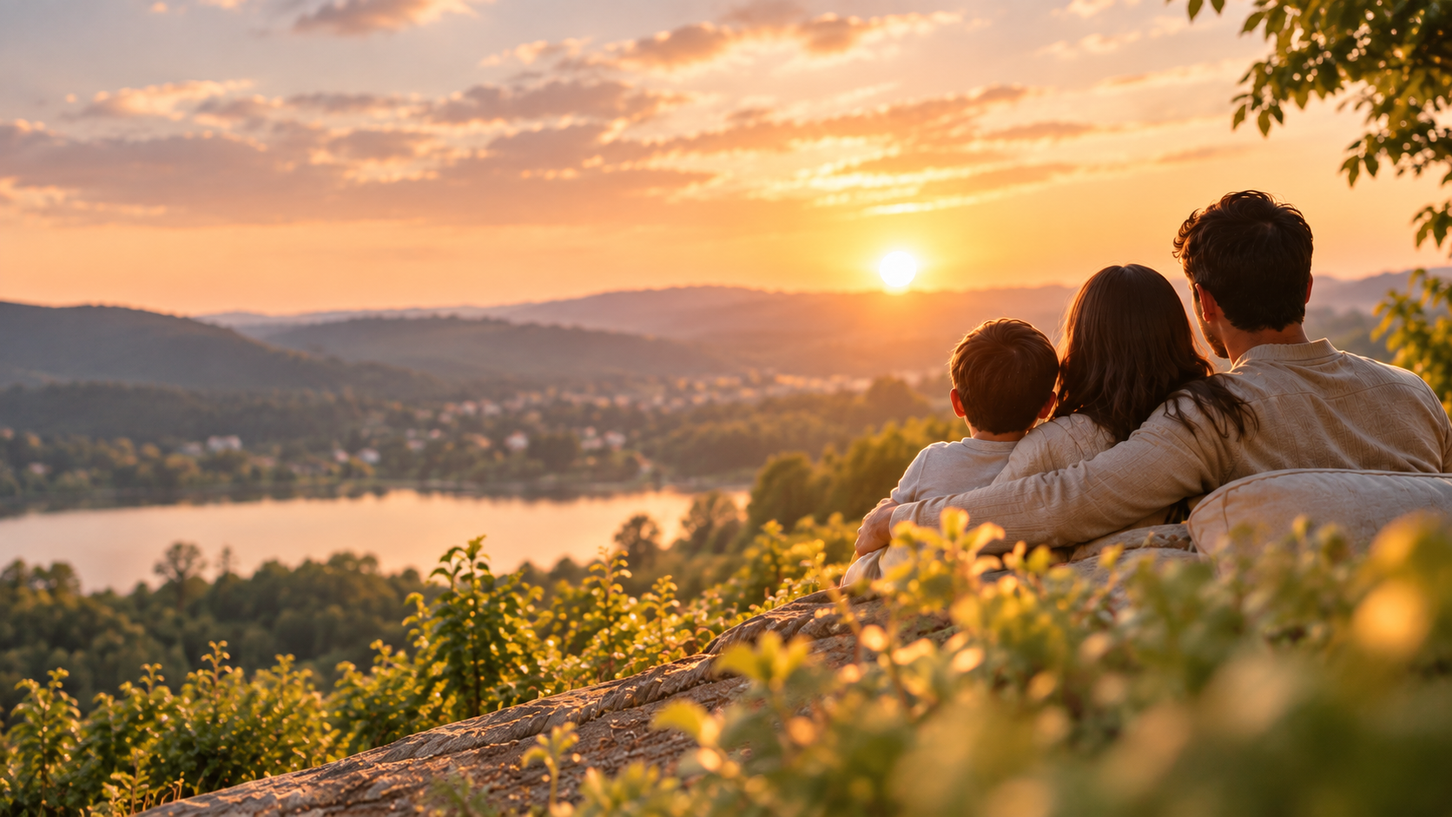
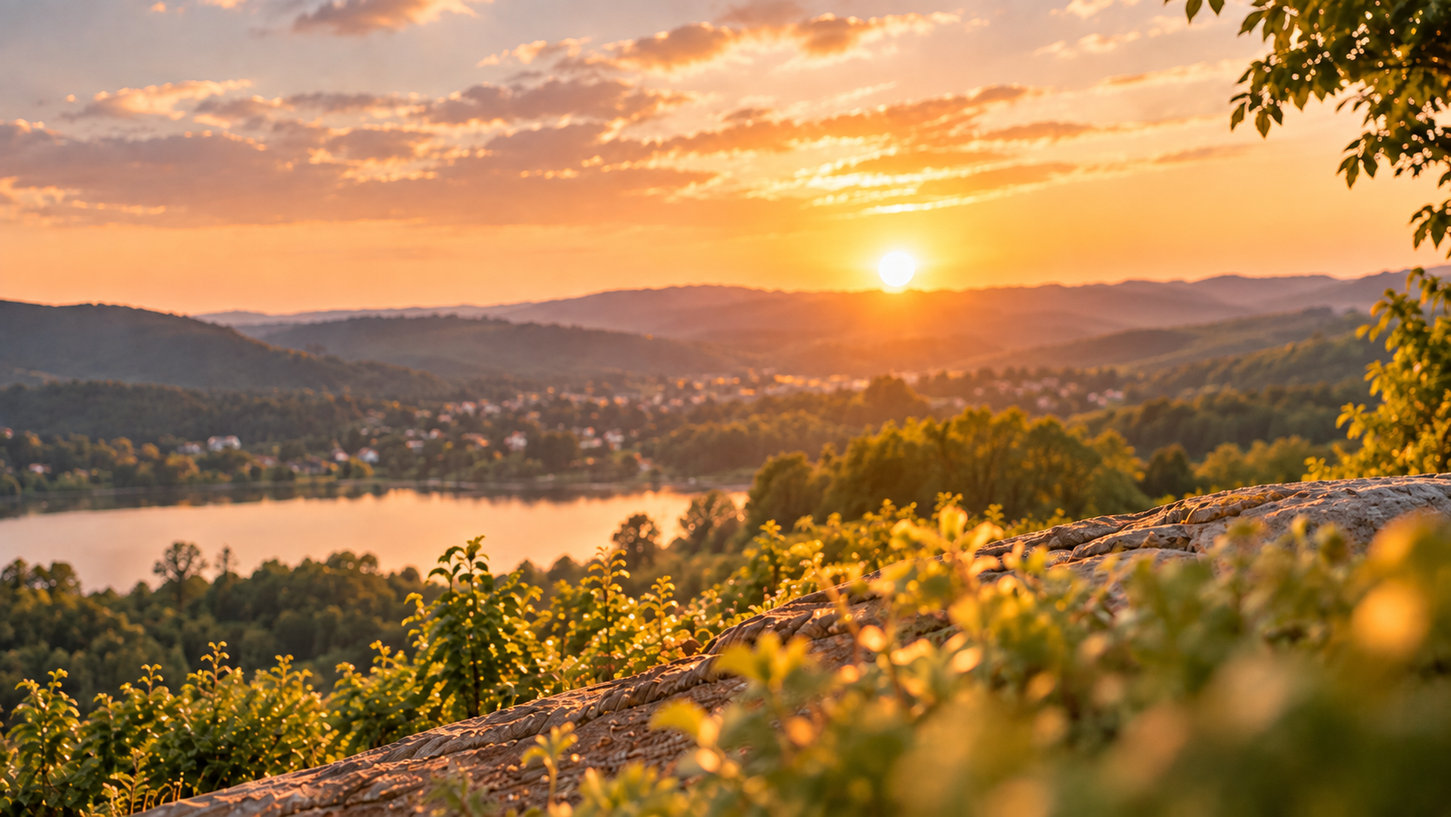
new changes to front cover image

diff --git a/dist/assets/index-CX-RMKwR.css b/dist/assets/index-CX-RMKwR.css
@@ -1,0 +1,1 @@
+:root{--bg:#F3EADF;--surface:#FFFDFA;--surface-2:#F1E8DE;--surface-3:#E8DCCF;--ink:#1F1519;--ink-2:#5C4C53;--ink-3:#8C7B80;--line:#E3D5C8;--brand:#6E1F47;--brand-ink:#FFFFFF;--brand-tint:#F5E5EC;--brand-soft:#E4C2D2;--accent:#EE5A2B;--accent-tint:#FDE6DC;--ok:#2C7666;--ok-tint:#DCEEE8;--open:#A0630C;--open-tint:#F9ECD6;--open-line:#E6C27A;--river:#3E8C7B;--river-soft:#D3E8E1;--focus:#2F5FD0;--serif:"Libre Baskerville", Baskerville, Georgia, "Times New Roman", serif;--sans:"IBM Plex Sans", system-ui, -apple-system, "Segoe UI", Roboto, Helvetica, Arial, sans-serif;box-sizing:border-box;padding-top:env(safe-area-inset-top,0px);padding-bottom:env(safe-area-inset-bottom,0px);color-scheme:light}@media(prefers-color-scheme:dark){:root:not([data-theme=light]){--bg:#17121A;--surface:#221B25;--surface-2:#2B232F;--surface-3:#352C39;--ink:#F2EAEE;--ink-2:#C0B1B9;--ink-3:#8F8089;--line:#3B3140;--brand:#E59AC0;--brand-ink:#2A0E1C;--brand-tint:#3A2130;--brand-soft:#5C2E45;--accent:#FF8A5F;--accent-tint:#3D2419;--ok:#67C4AE;--ok-tint:#1C3530;--open:#E6B95C;--open-tint:#372E1C;--open-line:#7A6230;--river:#5DB8A3;--river-soft:#1F3D37;--focus:#8FB0FF;color-scheme:dark}}:root[data-theme=dark]{--bg:#17121A;--surface:#221B25;--surface-2:#2B232F;--surface-3:#352C39;--ink:#F2EAEE;--ink-2:#C0B1B9;--ink-3:#8F8089;--line:#3B3140;--brand:#E59AC0;--brand-ink:#2A0E1C;--brand-tint:#3A2130;--brand-soft:#5C2E45;--accent:#FF8A5F;--accent-tint:#3D2419;--ok:#67C4AE;--ok-tint:#1C3530;--open:#E6B95C;--open-tint:#372E1C;--open-line:#7A6230;--river:#5DB8A3;--river-soft:#1F3D37;--focus:#8FB0FF;color-scheme:dark}html{height:100%;scroll-padding-top:env(safe-area-inset-top,0px)}*,*:before,*:after{box-sizing:inherit}body{height:100%;margin:0;background:var(--bg);color:var(--ink);font-family:var(--sans);font-size:16px;line-height:1.5;-webkit-font-smoothing:antialiased;font-variant-numeric:tabular-nums}button,input,select,textarea{font:inherit;color:inherit}button{cursor:pointer}:focus-visible{outline:2px solid var(--focus);outline-offset:2px;border-radius:6px}.sr{position:absolute;width:1px;height:1px;overflow:hidden;clip:rect(0 0 0 0);white-space:nowrap}.app{height:100%;display:grid;grid-template-rows:auto minmax(0,1fr)}.top{display:flex;align-items:center;gap:20px;padding:12px 24px;border-bottom:1px solid var(--line);background:var(--bg);position:relative;z-index:5}.brand{background:none;border:0;padding:2px 0;font-family:var(--serif);font-weight:700;font-size:1.4rem;color:var(--brand);letter-spacing:-.01em;white-space:nowrap;cursor:pointer}.stages{display:flex;gap:4px;margin:0 auto;list-style:none;padding:0}.stages li{position:relative}.stages button{background:none;border:0;padding:8px 12px;border-radius:999px;color:var(--ink-3);font-size:.92rem;font-weight:500;white-space:nowrap}.stages li.reached button{color:var(--ink-2)}.stages li.current button{color:var(--ink);background:var(--surface)}.stages li.current button:after{content:"";display:block;height:2px;background:var(--brand);border-radius:2px;margin-top:2px}.stages button:disabled{cursor:default}.top-actions{display:flex;gap:8px}.ghost{background:none;border:1px solid var(--line);border-radius:999px;padding:7px 14px;font-size:.88rem;color:var(--ink-2);white-space:nowrap}.ghost:hover{border-color:var(--ink-3);color:var(--ink)}.main{display:grid;grid-template-columns:250px minmax(0,1fr) 360px;min-height:0}.convo{min-height:0;overflow-y:auto;position:relative;display:flex;flex-direction:column}.stream{width:100%;max-width:720px;margin:0 auto;padding:40px 28px 32px;flex:1 0 auto}.panel{min-height:0;overflow-y:auto;background:var(--surface);border-left:1px solid var(--line)}.hero{padding:24px 0 8px}.hero h1{font-family:var(--serif);font-weight:700;font-size:clamp(1.8rem,3.4vw,2.5rem);line-height:1.15;letter-spacing:-.02em;margin:0 0 16px;max-width:20ch}.hero p{font-size:1.1rem;line-height:1.6;color:var(--ink-2);margin:0 0 24px;max-width:52ch}.intake{background:var(--surface);border:1px solid var(--line);border-radius:20px;padding:6px;box-shadow:0 1px 0 var(--line)}.intake textarea{width:100%;min-height:104px;resize:vertical;border:0;background:transparent;padding:16px 16px 8px;font-family:var(--sans);font-size:1.08rem;line-height:1.55;outline:none}.intake textarea::placeholder{color:var(--ink-3)}.intake-row{display:flex;flex-wrap:wrap;align-items:center;gap:8px;padding:8px 8px 6px}.intake-row .spacer{flex:1}.hero-alt{display:flex;flex-wrap:wrap;gap:10px 18px;margin-top:18px}.linkish{background:none;border:0;padding:4px 0;color:var(--brand);font-weight:600;font-size:.97rem;text-decoration:underline;text-decoration-thickness:1px;text-underline-offset:4px}.linkish:hover{text-decoration-thickness:2px}.hero .trust{margin:26px 0 0;font-family:var(--sans);font-size:.86rem;line-height:1.5;color:var(--ink-3);max-width:60ch}.btn{border:0;border-radius:12px;padding:11px 18px;font-weight:600;font-size:.98rem;background:var(--brand);color:var(--brand-ink);transition:transform .12s ease,opacity .12s}.btn:hover{opacity:.92}.btn:active{transform:translateY(1px)}.btn:disabled{opacity:.4;cursor:not-allowed}.btn.secondary{background:var(--surface-2);color:var(--ink)}.btn.quiet{background:transparent;color:var(--ink-2);border:1px solid var(--line)}.btn.small{padding:7px 12px;font-size:.88rem;border-radius:10px}.msg{margin:0 0 18px;animation:rise .32s ease both}@keyframes rise{0%{opacity:0;transform:translateY(6px)}to{opacity:1;transform:none}}.ll{display:grid;grid-template-columns:28px minmax(0,1fr);gap:12px;align-items:start}.ll .mark{width:28px;height:28px;margin-top:3px}.ll .q{font-family:var(--serif);font-size:1.16rem;line-height:1.5;font-weight:400;margin:0}.ll .t{font-size:1.04rem;line-height:1.65;margin:0}.ll .t+.t,.ll .q+.t{margin-top:6px}.ll .sub{color:var(--ink-2);font-size:.98rem}.ll strong{font-weight:600}.ll .t.guarded{position:relative}.typing{display:inline-flex;gap:5px;padding:10px 0}.typing i{width:6px;height:6px;border-radius:50%;background:var(--ink-3);animation:blink 1.1s infinite both}.typing i:nth-child(2){animation-delay:.15s}.typing i:nth-child(3){animation-delay:.3s}@keyframes blink{0%,80%,to{opacity:.25}40%{opacity:1}}.me{display:flex;justify-content:flex-end;gap:8px;align-items:center}.me .bubble{background:var(--brand-tint);border-radius:16px 16px 4px;padding:9px 14px;max-width:80%;font-size:1rem}.me .edit{opacity:0;background:none;border:0;color:var(--ink-3);font-size:.82rem;padding:4px 6px;transition:opacity .15s}.me:hover .edit,.me .edit:focus-visible{opacity:1}.me .thumb{width:120px;border-radius:10px;border:1px solid var(--line);display:block}.stage-break{display:flex;align-items:center;gap:14px;margin:38px 0 26px;color:var(--ink-3);font-size:.9rem;font-weight:600}.stage-break:before,.stage-break:after{content:"";height:1px;background:var(--line);flex:1}.stage-break span{color:var(--brand);font-family:var(--serif);font-weight:700}.note{font-size:.88rem;color:var(--ink-3);margin-top:8px}.widget{margin:4px 0 26px 40px;animation:rise .32s ease both}.opts{display:flex;flex-wrap:wrap;gap:10px}.opt{background:var(--surface);border:1px solid var(--line);border-radius:12px;padding:11px 16px;font-size:1rem;text-align:left;display:inline-flex;align-items:center;gap:10px;transition:border-color .12s,background .12s}.opt:hover{border-color:var(--brand)}.opt[aria-pressed=true]{background:var(--brand-tint);border-color:var(--brand)}.opt .ic{font-size:1.15rem;line-height:1}.opt small{display:block;color:var(--ink-3);font-size:.82rem;margin-top:1px}.opts.cards{display:grid;grid-template-columns:repeat(auto-fill,minmax(200px,1fr))}.opts.cards .opt{padding:14px 16px;min-height:60px}.widget .actions{display:flex;gap:10px;align-items:center;margin-top:14px;flex-wrap:wrap}.amount{background:var(--surface);border:1px solid var(--line);border-radius:16px;padding:18px 18px 14px;max-width:520px}.amount .big{display:flex;align-items:baseline;gap:2px;font-size:2.1rem;font-weight:600;letter-spacing:-.02em}.amount .big input{border:0;background:transparent;width:7ch;min-width:3ch;max-width:12ch;font-size:inherit;font-weight:inherit;letter-spacing:inherit;padding:0;outline:none;border-bottom:2px dashed var(--line)}.amount .big input:focus{border-bottom-color:var(--brand)}.amount .big .unit{font-size:1rem;color:var(--ink-3);font-weight:500;margin-left:8px}.range{width:100%;margin:14px 0 4px;accent-color:var(--brand);height:28px}.range-ends{display:flex;justify-content:space-between;font-size:.8rem;color:var(--ink-3)}.chips{display:flex;flex-wrap:wrap;gap:8px;margin-top:12px}.chip{background:var(--surface-2);border:1px solid transparent;border-radius:999px;padding:6px 12px;font-size:.9rem}.chip:hover{border-color:var(--ink-3)}.kids-row{display:flex;flex-wrap:wrap;gap:10px;margin-top:12px}.kid{display:flex;align-items:center;gap:8px;background:var(--surface);border:1px solid var(--line);border-radius:12px;padding:8px 10px 8px 14px}.kid select{border:1px solid var(--line);border-radius:8px;padding:4px 6px;background:var(--surface)}.photo-btn{display:inline-flex;align-items:center;gap:8px}.found{background:var(--surface);border:1px solid var(--line);border-radius:18px;padding:16px}.found .chips .chip{background:var(--ok-tint);display:inline-flex;gap:8px;align-items:center}.found .chip button{background:none;border:0;padding:0 2px;color:var(--ink-2);font-size:1rem;line-height:1}.card{background:var(--surface);border:1px solid var(--line);border-radius:22px;padding:24px;margin:6px 0 28px;animation:rise .4s ease both}.card h3{font-family:var(--serif);font-weight:700;font-size:1.3rem;line-height:1.3;letter-spacing:-.01em;margin:0 0 6px}.card .lede{font-size:1rem;line-height:1.6;color:var(--ink-2);margin:0 0 18px}.reveal-num{font-family:var(--serif);font-weight:700;font-size:clamp(3rem,8vw,4.6rem);line-height:1;letter-spacing:-.03em;margin:8px 0 6px}.reveal-sub{color:var(--ink-2);font-size:1rem}.already{display:flex;align-items:center;gap:14px;margin:18px 0 4px;padding:14px;background:var(--ok-tint);border-radius:14px}.ring{width:54px;height:54px;flex:none}.cov-readout{display:flex;align-items:baseline;justify-content:space-between;gap:12px;flex-wrap:wrap}.cov-readout .v{font-size:2.4rem;font-weight:600;letter-spacing:-.02em}.tiers{display:flex;gap:8px;flex-wrap:wrap}.tiers .opt{padding:7px 12px;font-size:.9rem}.goal{display:grid;grid-template-columns:minmax(0,1fr) auto;gap:4px 12px;margin:12px 0}.goal .name{font-weight:500}.goal .stat{font-size:.9rem;color:var(--ink-2);text-align:right}.goal .stat.ok{color:var(--ok);font-weight:600}.goal .bar{grid-column:1/-1;height:10px;background:var(--surface-2);border-radius:6px;overflow:hidden}.goal .bar i{display:block;height:100%;background:var(--ok);border-radius:6px;transition:width .25s ease}.goal .bar i.part{background:var(--open-line)}.reaction{font-size:1.05rem;line-height:1.6;margin:16px 0 0;padding-top:16px;border-top:1px solid var(--line)}.card.tl-card{padding:0;overflow:hidden}.pre .composer{display:none}.tl-head{padding:24px 24px 6px}.tl-scene{padding:6px 24px 0}.tl-svg{display:block;width:100%;height:auto;overflow:visible}.tl-year{display:grid;grid-template-columns:auto minmax(0,1fr);gap:6px 18px;align-items:start;padding:18px 24px 22px;border-top:1px solid var(--line);margin-top:8px;background:var(--surface)}.tl-year .yr{font-family:var(--serif);font-size:2rem;line-height:1.1;font-weight:700;letter-spacing:-.02em;min-width:3.6ch}.tl-year .yr small{display:block;font-family:var(--sans);font-size:.8rem;color:var(--ink-3);letter-spacing:0;margin-top:6px;font-weight:500}.tl-year ul{list-style:none;margin:0;padding:0}.tl-year li{font-size:1.02rem;line-height:1.55;padding:2px 0}.tl-year li.soft{color:var(--ink-2)}.tl-year li.amber{color:var(--open)}.tl-controls{display:flex;align-items:center;gap:12px;padding:4px 24px 0}.tl-controls input{flex:1;accent-color:var(--river)}.play{width:40px;height:40px;border-radius:50%;border:1px solid var(--line);background:var(--surface);display:grid;place-items:center;flex:none}.legend{display:flex;gap:16px;flex-wrap:wrap;font-size:.82rem;color:var(--ink-3);padding:0 24px}.legend i{display:inline-block;width:10px;height:10px;border-radius:3px;margin-right:6px;vertical-align:-1px}.tvw-toggle{display:flex;gap:8px;flex-wrap:wrap;margin:8px 0 6px}.tvw-chart{margin:6px -6px 4px}.verdict{font-family:var(--serif);font-size:1.06rem;line-height:1.6;margin:14px 0 18px;padding:14px 16px;background:var(--brand-tint);border-radius:14px}.trade{display:grid;grid-template-columns:auto minmax(0,1fr);gap:12px;padding:14px 0;border-top:1px solid var(--line)}.trade .lean{font-size:.74rem;font-weight:600;padding:3px 8px;border-radius:999px;white-space:nowrap;height:fit-content;margin-top:3px}.lean.term{background:var(--ok-tint);color:var(--ok)}.lean.whole{background:var(--brand-tint);color:var(--brand)}.lean.either{background:var(--surface-2);color:var(--ink-2)}.trade b{display:block;font-weight:600;margin-bottom:2px}.trade p{margin:0;color:var(--ink-2);font-size:.97rem}.costs{width:100%;border-collapse:collapse;margin-top:8px;font-size:.95rem}.costs th,.costs td{padding:10px 8px;border-top:1px solid var(--line);text-align:left;vertical-align:top}.costs th{font-weight:500;color:var(--ink-2);font-size:.85rem}.costs td.n{text-align:right;white-space:nowrap;font-weight:600}.scroll-x{overflow-x:auto}.fine{font-size:.82rem;color:var(--ink-3);margin-top:10px}.duo{display:grid;grid-template-columns:1fr 1fr;gap:14px}.side{border:1px solid var(--line);border-radius:16px;padding:16px}.side h4{margin:0 0 10px;font-family:var(--serif);font-weight:700;font-size:1rem;line-height:1.4}.row{display:flex;justify-content:space-between;gap:10px;padding:5px 0;font-size:.95rem}.row.total{border-top:1px solid var(--line);margin-top:6px;padding-top:9px;font-weight:600}.status{list-style:none;padding:0;margin:12px 0 0}.status li{display:flex;justify-content:space-between;gap:8px;padding:4px 0;font-size:.93rem}.status .s{font-weight:600;font-size:.85rem}.s.ok{color:var(--ok)}.s.part{color:var(--open)}.events{display:grid;grid-template-columns:repeat(auto-fill,minmax(180px,1fr));gap:10px}.events .opt{min-height:56px}.ex-body{margin-top:18px;padding-top:18px;border-top:1px solid var(--line)}.ex-nums{display:flex;align-items:center;gap:16px;flex-wrap:wrap;margin:12px 0}.ex-nums .n{font-size:1.9rem;font-weight:600;letter-spacing:-.02em}.ex-nums .lbl{font-size:.82rem;color:var(--ink-3)}.ex-nums .delta{font-size:1.05rem;font-weight:600;padding:4px 10px;border-radius:999px;background:var(--surface-2)}.ex-nums .delta.up{background:var(--open-tint);color:var(--open)}.ex-nums .delta.down{background:var(--ok-tint);color:var(--ok)}.toggles{display:flex;flex-wrap:wrap;gap:8px;margin:6px 0}.handoff pre{white-space:pre-wrap;font-family:var(--sans);font-size:.93rem;background:var(--surface-2);padding:14px;border-radius:12px;margin:12px 0}.composer{position:sticky;bottom:0;background:linear-gradient(to top,var(--bg) 70%,transparent);padding:14px 28px 18px;z-index:3}.composer .ask-box{max-width:664px;margin:0 auto;display:flex;gap:8px;background:var(--surface);border:1px solid var(--line);border-radius:16px;padding:6px 6px 6px 16px;box-shadow:0 6px 24px -12px #221e2940}.composer input{flex:1;border:0;background:transparent;outline:none;font-size:1rem;min-width:0}.composer .hint{max-width:664px;margin:6px auto 0;font-size:.78rem;color:var(--ink-3);text-align:center}.plan{padding:28px 26px 40px}.plan h2{font-family:var(--serif);font-weight:700;font-size:1.2rem;margin:0 0 4px;letter-spacing:-.01em}.plan .intro{color:var(--ink-3);font-size:.92rem;margin:0 0 20px}.empty-plan{border:1px dashed var(--line);border-radius:16px;padding:18px;color:var(--ink-3);font-size:.93rem}.empty-plan .ghostrow{height:10px;border-radius:5px;background:var(--surface-2);margin:10px 0}.pgroup{margin:0 0 6px}.pgroup-h{font-size:.82rem;color:var(--ink-3);font-weight:600;margin:16px 0 4px}.prow{border-bottom:1px solid var(--line)}.prow>button{all:unset;box-sizing:border-box;width:100%;display:flex;justify-content:space-between;gap:12px;padding:10px 0;cursor:pointer}.prow>button:focus-visible{outline:2px solid var(--focus);outline-offset:2px}.prow .lab{display:flex;gap:8px;align-items:baseline}.prow .lab .why{font-size:.78rem;color:var(--ink-3)}.prow .amt{font-weight:600;white-space:nowrap}.prow.neg .amt{color:var(--ok)}.prow.off .amt{color:var(--ink-3);text-decoration:line-through}.prow .explain{font-size:.88rem;color:var(--ink-2);padding:0 0 12px;display:none;line-height:1.5}.prow.open .explain{display:block}.prow.flash{animation:flash 1.4s ease}@keyframes flash{0%{background:var(--ok-tint)}to{background:transparent}}.psum{display:flex;justify-content:space-between;padding:10px 0;font-weight:600}.target{margin:18px 0 0;padding:18px;border-radius:16px;background:var(--brand-tint)}.target .lbl{font-size:.88rem;color:var(--ink-2)}.target .num{font-family:var(--serif);font-size:2.2rem;line-height:1.15;font-weight:700;letter-spacing:-.02em;margin:2px 0}.target .progress{height:8px;border-radius:4px;background:var(--surface);overflow:hidden;margin-top:10px}.target .progress i{display:block;height:100%;background:var(--ok);border-radius:4px;transition:width .4s ease}.target .ptext{font-size:.85rem;color:var(--ink-2);margin-top:6px}.switch{display:flex;align-items:center;gap:8px;font-size:.85rem;color:var(--ink-2);margin:6px 0 0}.switch input{accent-color:var(--brand)}.chosen{margin-top:12px;font-size:.95rem}.chosen b{font-size:1.1rem}.partner-box{margin-top:22px;padding-top:14px;border-top:1px solid var(--line)}.sheet-bar{display:none}.drawer-wrap{position:fixed;top:0;right:0;bottom:0;left:0;z-index:20;display:none}.drawer-wrap.open{display:block}.scrim{position:absolute;top:0;right:0;bottom:0;left:0;background:#14101859}.drawer{position:absolute;top:0;right:0;bottom:0;width:min(520px,100%);background:var(--surface);border-left:1px solid var(--line);overflow-y:auto;padding:calc(22px + env(safe-area-inset-top,0px)) 24px calc(30px + env(safe-area-inset-bottom,0px))}.drawer h2{font-family:var(--serif);font-weight:700;font-size:1.35rem;margin:0}.drawer h3{font-size:.95rem;margin:24px 0 8px}.drawer p{color:var(--ink-2);font-size:.92rem;margin:6px 0}.drawer .close{position:absolute;top:calc(16px + env(safe-area-inset-top,0px));right:16px}.kv{width:100%;border-collapse:collapse;font-size:.88rem}.kv td{padding:6px 4px;border-top:1px solid var(--line);vertical-align:top}.kv td:last-child{text-align:right;font-weight:600}.logline{font-size:.85rem;border-top:1px solid var(--line);padding:8px 0}.logline .tag{display:inline-block;font-size:.72rem;font-weight:600;padding:2px 8px;border-radius:999px;margin-right:6px}.tag.claude{background:var(--brand-tint);color:var(--brand)}.tag.local{background:var(--surface-2);color:var(--ink-2)}.tag.pass{background:var(--ok-tint);color:var(--ok)}.tag.fail{background:var(--open-tint);color:var(--open)}.assume label{display:flex;justify-content:space-between;font-size:.9rem;margin-top:12px}.assume input[type=range]{width:100%;accent-color:var(--brand)}.redact{background:var(--open-tint);color:var(--open);border-radius:4px;padding:0 4px;font-family:var(--sans);font-size:.9em}.guardnote{font-size:.8rem;color:var(--ink-3);margin-top:4px}.modal-wrap{position:fixed;top:0;right:0;bottom:0;left:0;z-index:25;display:grid;place-items:center;padding:20px}.modal-wrap .scrim{position:absolute;top:0;right:0;bottom:0;left:0}.modal{position:relative;background:var(--bg);border:1px solid var(--line);border-radius:20px;padding:22px;width:min(600px,100%);max-height:85vh;overflow:auto}.modal .widget{margin-left:0}.landing{position:fixed;top:0;right:0;bottom:0;left:0;z-index:30;overflow-y:auto;background:#f6ede4;color:#1f1519;padding-top:env(safe-area-inset-top,0px);padding-bottom:env(safe-area-inset-bottom,0px)}body:not(.on-landing) .landing{display:none}body.on-landing .app{visibility:hidden}.landing-photo{position:absolute;top:0;right:0;bottom:0;left:0;overflow:hidden;background:#f7efe6}.landing-photo img{position:absolute;top:0;right:0;width:72%;height:100%;object-fit:cover;object-position:72% 50%}.landing-photo:after{content:"";position:absolute;top:0;right:0;bottom:0;left:0;background:linear-gradient(90deg,#f7efe6,#f7efe6 28%,#f7efe68c 42%,#f7efe600 58%),linear-gradient(180deg,#f7efe61f,#f7efe600 18%)}.landing-inner{position:relative;z-index:1;max-width:1360px;margin:0 auto;min-height:100%;padding:clamp(28px,4vw,48px) clamp(22px,5vw,72px) 48px;display:grid;grid-template-columns:minmax(0,1fr) minmax(320px,.92fr);grid-template-areas:"brand brand" "hero cards";grid-template-rows:auto 1fr;column-gap:clamp(24px,4.5vw,64px);row-gap:clamp(20px,4vw,40px);align-items:center}.l-brand{grid-area:brand;align-self:start}.l-brand .name{font-family:var(--serif);font-weight:700;font-size:clamp(1.7rem,2.6vw,2.15rem);line-height:1.05;color:var(--brand);letter-spacing:-.01em}.l-brand .tag{font-size:.95rem;color:#5c4c53;margin-top:6px}.l-hero{grid-area:hero;align-self:center}.l-hero h1{font-family:var(--serif);font-weight:700;font-size:clamp(2.35rem,4.6vw,3.7rem);line-height:1.1;letter-spacing:-.03em;margin:0 0 18px;color:#1f1519;max-width:13ch}.l-hero h1 em{font-style:italic;font-weight:400;color:var(--brand)}.l-hero .lede{font-size:clamp(1.02rem,1.3vw,1.14rem);line-height:1.6;color:#5c4c53;margin:0 0 28px;max-width:36ch}.l-actions{display:flex;flex-wrap:wrap;align-items:center;gap:14px 22px}.l-cta{border:0;background:var(--brand);color:#fff;font-weight:600;font-size:1.05rem;padding:16px 28px;border-radius:999px;box-shadow:0 14px 30px -18px #6e1f47cc;transition:transform .12s ease,box-shadow .12s}.l-cta:hover{transform:translateY(-1px);box-shadow:0 18px 34px -18px #6e1f47d9}.landing .linkish{color:var(--brand);font-weight:600}.l-cards{grid-area:cards;display:grid;grid-template-columns:1fr 1fr;gap:16px;max-width:560px;align-self:center}.l-card{background:#fffdfa;border-radius:18px;padding:22px 20px 24px;box-shadow:0 18px 40px -24px #28181473}.l-card.alt{box-shadow:0 18px 40px -24px #28181473,inset 3px 0 0 var(--accent)}.l-card h3{display:flex;align-items:center;gap:10px;margin:0 0 10px;font-family:var(--sans);font-weight:600;font-size:1.02rem;line-height:1.25;color:var(--brand)}.l-card .ico{width:32px;height:32px;border-radius:50%;background:#f5e5ec;color:var(--brand);display:grid;place-items:center;flex:none}.l-card.alt .ico{background:#fde6dc;color:var(--accent)}.l-card p{margin:0;color:#5c4c53;line-height:1.55;font-size:.92rem}.side-nav{min-height:0;overflow-y:auto;border-right:1px solid var(--line);background:var(--surface-2);padding:16px 12px;display:flex;flex-direction:column;gap:4px}.new-plan{width:100%}.side-h{font-family:var(--sans);font-size:.8rem;font-weight:600;color:var(--ink-3);margin:18px 8px 6px}.plan-list{list-style:none;margin:0;padding:0;display:flex;flex-direction:column;gap:2px}.plan-empty{font-size:.88rem;color:var(--ink-3);padding:6px 8px}.plan-item{display:flex;align-items:center;border-radius:10px}.plan-item:hover{background:var(--surface)}.plan-item.current{background:var(--surface);box-shadow:inset 3px 0 0 var(--brand)}.plan-item .open{all:unset;box-sizing:border-box;flex:1;min-width:0;padding:9px 6px 9px 12px;cursor:pointer;display:flex;flex-direction:column;gap:1px}.plan-item .open:focus-visible{outline:2px solid var(--focus);outline-offset:-2px;border-radius:10px}.plan-item .t{font-size:.92rem;font-weight:500;white-space:nowrap;overflow:hidden;text-overflow:ellipsis}.plan-item .m{font-size:.78rem;color:var(--ink-3);white-space:nowrap;overflow:hidden;text-overflow:ellipsis}.plan-item .del{background:none;border:0;color:var(--ink-3);padding:6px 9px;margin-right:4px;border-radius:8px;opacity:0;font-size:1rem;white-space:nowrap}.plan-item:hover .del,.plan-item .del:focus-visible,.plan-item .del.armed{opacity:1}.plan-item .del.armed{color:var(--accent);font-size:.8rem;font-weight:600}.side-note{margin-top:auto;font-size:.78rem;line-height:1.5;color:var(--ink-3);padding:14px 8px 0}.nav-toggle{display:none;padding:7px 10px}.nav-scrim{position:fixed;top:0;right:0;bottom:0;left:0;background:#1f151959;z-index:14}.tabs{display:inline-flex;gap:4px;background:var(--surface-2);padding:4px;border-radius:12px;margin:0 0 16px}.tabs button{border:0;background:none;padding:8px 14px;border-radius:9px;font-weight:500;color:var(--ink-2)}.tabs button[aria-selected=true]{background:var(--surface);color:var(--ink);box-shadow:0 1px 3px #1f15191f}.stress{margin:12px 0 4px;padding:12px 14px;border-radius:12px;background:var(--ok-tint);color:var(--ink);font-weight:500}.stress.short{background:var(--open-tint)}.helps{font-size:.95rem;line-height:1.6;color:var(--ink-2);margin:12px 0 0}.sources{font-size:.86rem;line-height:1.6;color:var(--ink-3);margin:12px 0 0}.sources a{color:var(--brand);text-underline-offset:3px}.field-error{color:var(--open);font-size:.9rem;font-weight:500;margin:8px 0 0}.amount .big input[aria-invalid=true]{border-bottom-color:var(--open)}.amount.hw{max-width:560px}.hw-row{display:flex;flex-wrap:wrap;gap:16px 28px;align-items:flex-end}.hw-f{display:flex;align-items:center;gap:8px;font-size:1rem}.hw-f .lbl{font-weight:600;margin-right:4px}.hw-f select{border:1px solid var(--line);border-radius:10px;padding:8px 10px;background:var(--surface);font-size:1rem}.hw-f input{width:5ch;border:0;border-bottom:2px dashed var(--line);background:transparent;font-size:1.5rem;font-weight:600;padding:0 2px;outline:none}.hw-f input:focus{border-bottom-color:var(--brand)}.hw-f input[aria-invalid=true]{border-bottom-color:var(--open)}.hw-f .unit{color:var(--ink-3)}.class-name{font-family:var(--serif);font-weight:700;font-size:clamp(1.8rem,4vw,2.4rem);line-height:1.15;color:var(--brand);display:flex;align-items:center;gap:12px;flex-wrap:wrap;margin:4px 0 14px}.pill{font-family:var(--sans);font-size:.78rem;font-weight:600;padding:4px 10px;border-radius:999px;background:var(--accent-tint);color:var(--accent)}.ladder{display:grid;grid-template-columns:repeat(5,1fr);gap:6px;margin:0 0 6px}.rung{display:flex;flex-direction:column;gap:6px;font-size:.78rem;color:var(--ink-3);line-height:1.25}.rung i{display:block;height:8px;border-radius:4px;background:var(--surface-3)}.rung.on{color:var(--brand);font-weight:600}.rung.on i{background:var(--brand)}.why-grid{display:grid;grid-template-columns:1fr 1fr;gap:14px;margin-top:14px}.why-list{background:var(--surface-2);border-radius:12px;padding:12px 14px;font-size:.93rem}.why-list b{display:block;margin-bottom:4px}.why-list ul{margin:0;padding-left:18px}.why-list li{margin:3px 0;line-height:1.45;color:var(--ink-2)}.why-list.good{background:var(--ok-tint)}.why-list.held{background:var(--open-tint)}.why-list.tips{margin-top:14px;background:var(--brand-tint)}.facts{display:grid;grid-template-columns:repeat(4,minmax(0,1fr));gap:10px;margin-top:8px}.facts>div{background:var(--surface-2);border-radius:12px;padding:12px 14px;display:flex;flex-direction:column;gap:4px}.facts span{font-size:.8rem;color:var(--ink-3)}.facts b{font-size:1.05rem;line-height:1.3}.policy-card .facts>div:first-child{background:var(--brand-tint)}.policy-box{margin-top:14px;padding:14px 16px;border:1px solid var(--line);border-radius:14px}.policy-box .pgroup-h{margin-top:0}.opt-grid{display:grid;grid-template-columns:repeat(auto-fill,minmax(230px,1fr));gap:12px;margin:16px 0}.opt-card{border:1px solid var(--line);border-left:4px solid var(--accent);border-radius:12px;padding:14px 16px;background:var(--surface);display:flex;flex-direction:column;gap:6px}.opt-card:nth-child(odd){border-left-color:var(--brand)}.opt-card b{color:var(--brand)}.opt-card p{margin:0;font-size:.92rem;line-height:1.5;color:var(--ink-2)}.opt-card .benefit{color:var(--ink)}.opt-card .price{margin-top:auto;font-weight:600;font-size:.9rem;color:var(--ink-3)}@media(max-width:700px){.facts{grid-template-columns:1fr 1fr}.why-grid{grid-template-columns:1fr}.rung span{font-size:.68rem}}.suggest{max-width:664px;margin:0 auto 8px;display:flex;gap:6px;flex-wrap:wrap}.suggest:empty{display:none}.suggest .chip{background:var(--surface);border:1px solid var(--line);font-size:.85rem;padding:5px 11px;white-space:nowrap}.suggest .chip:hover{border-color:var(--brand);color:var(--brand)}.small-link{font-size:.85rem;margin-top:4px}.card.pulse,.panel.pulse{animation:pulse 1.5s ease}@keyframes pulse{0%{box-shadow:0 0 #6e1f4773}to{box-shadow:0 0 0 14px #6e1f4700}}@media(max-width:560px){.suggest{flex-wrap:nowrap;overflow-x:auto;padding-bottom:2px;scrollbar-width:none}}.msg.me.stale .bubble{opacity:.7}.stale-note{display:block;font-size:.75rem;color:var(--ink-3);margin-top:2px}.ai-tag{display:inline-block;margin-top:8px;font-size:.76rem;color:var(--ink-3);padding:3px 9px;border-radius:999px;background:var(--surface-2)}.ai-tag.on{color:var(--brand);background:var(--brand-tint)}.ask-about{margin:-18px 0 28px;display:flex;align-items:center;gap:12px;flex-wrap:wrap}.ask-about .linkish{font-weight:500;font-size:.9rem}.insights{list-style:none;margin:0;padding:0;counter-reset:ins}.insights li{display:grid;grid-template-columns:auto 1fr;gap:6px 14px;padding:14px 0;border-top:1px solid var(--line);counter-increment:ins}.insights li:before{content:counter(ins);grid-row:span 2;width:28px;height:28px;border-radius:50%;background:var(--brand-tint);color:var(--brand);font-weight:600;display:grid;place-items:center;font-size:.9rem}.insights li p{margin:0;line-height:1.55}.insights li .btn{justify-self:start}.brief{margin:0 0 6px}.brief:empty{display:none}.brief h4{margin:4px 0 6px;font-family:var(--serif);font-size:1rem}.brief p{margin:0;line-height:1.65}@media(max-width:1240px){.main{grid-template-columns:minmax(0,1fr) 340px}.nav-toggle{display:inline-flex}.side-nav{position:fixed;top:0;bottom:0;left:0;width:min(300px,86vw);z-index:15;transform:translate(-102%);transition:transform .25s ease;padding-top:calc(16px + env(safe-area-inset-top,0px));box-shadow:12px 0 30px -20px #0006}.side-nav.open{transform:none}.stages button{padding:8px 9px}}@media(max-width:900px){.landing-inner{grid-template-columns:1fr;grid-template-areas:"brand" "hero" "cards";row-gap:28px}.landing-photo img{width:100%}.landing-photo:after{background:linear-gradient(180deg,#f7efe6b3,#f7efe647 34%,#f7efe61f)}.l-hero{padding-bottom:0}.l-cards{max-width:none}}@media(max-width:960px){.stages{display:none}.main{grid-template-columns:minmax(0,1fr)}.panel{position:fixed;left:0;right:0;bottom:0;max-height:78%;border-left:0;border-top:1px solid var(--line);border-radius:20px 20px 0 0;transform:translateY(calc(100% - 64px - env(safe-area-inset-bottom,0px)));transition:transform .3s ease;z-index:8;box-shadow:0 -10px 30px -18px #00000059;padding-bottom:env(safe-area-inset-bottom,0px)}.panel.up{transform:none}.sheet-bar{display:flex;align-items:center;justify-content:space-between;gap:10px;width:100%;height:64px;padding:0 20px;background:none;border:0;position:sticky;top:0;background:var(--surface);z-index:1}.sheet-bar .grab{width:36px;height:4px;border-radius:2px;background:var(--line);position:absolute;top:7px;left:50%;transform:translate(-50%)}.sheet-bar b{font-family:var(--serif);font-weight:700;font-size:1.15rem}.plan{padding-top:4px}.plan h2{display:none}.convo{padding-bottom:64px}.composer{bottom:64px}.duo{grid-template-columns:1fr}}@media(max-width:560px){.top{padding:10px 14px;gap:10px}.top .ghost.hide-sm{display:none}.stream{padding:24px 16px}.widget{margin-left:0}.ll{grid-template-columns:22px minmax(0,1fr);gap:10px}.ll .mark{width:22px;height:22px}.ll .q{font-size:1.2rem}.composer{padding:10px 12px 12px}.card{padding:18px;border-radius:18px}.tl-head,.tl-scene,.tl-controls,.legend{padding-left:16px;padding-right:16px}.tl-year{padding:16px}.opts.cards{grid-template-columns:1fr 1fr}.l-cards{grid-template-columns:1fr;gap:14px}.l-cta{width:100%}.brand{font-size:1.2rem}.tl-year{grid-template-columns:1fr;gap:10px}.composer .hint{display:none}.events{grid-template-columns:1fr 1fr}.duo{grid-template-columns:1fr}}@media(prefers-reduced-motion:reduce){*,*:before,*:after{animation:none!important;transition:none!important}}

diff --git a/src/styles.css b/src/styles.css
@@ -298,7 +298,7 @@ button{cursor:pointer}
 body:not(.on-landing) .landing{display:none}
 body.on-landing .app{visibility:hidden}
 .landing-photo{position:absolute; inset:0; overflow:hidden; background:#F7EFE6}
-.landing-photo img{position:absolute; top:-50%; right:0; width:70%; height:180%; object-fit:cover; object-position:83% 38%}
+.landing-photo img{position:absolute; top:0; right:0; width:72%; height:100%; object-fit:cover; object-position:72% 50%}
 .landing-photo::after{content:""; position:absolute; inset:0; background:linear-gradient(90deg, #F7EFE6 0%, #F7EFE6 28%, rgba(247,239,230,.55) 42%, rgba(247,239,230,0) 58%), linear-gradient(180deg, rgba(247,239,230,.12) 0%, rgba(247,239,230,0) 18%)}
 .landing-inner{position:relative; z-index:1; max-width:1360px; margin:0 auto; min-height:100%; padding:clamp(28px,4vw,48px) clamp(22px,5vw,72px) 48px; display:grid; grid-template-columns:minmax(0,1fr) minmax(320px,.92fr); grid-template-areas:"brand brand" "hero cards"; grid-template-rows:auto 1fr; column-gap:clamp(24px,4.5vw,64px); row-gap:clamp(20px,4vw,40px); align-items:center}
 .l-brand{grid-area:brand; align-self:start}
@@ -306,6 +306,7 @@ body.on-landing .app{visibility:hidden}
 .l-brand .tag{font-size:.95rem; color:#5C4C53; margin-top:6px}
 .l-hero{grid-area:hero; align-self:center}
 .l-hero h1{font-family:var(--serif); font-weight:700; font-size:clamp(2.35rem,4.6vw,3.7rem); line-height:1.1; letter-spacing:-.03em; margin:0 0 18px; color:#1F1519; max-width:13ch}
+.l-hero h1 em{font-style:italic; font-weight:400; color:var(--brand)}
 .l-hero .lede{font-size:clamp(1.02rem,1.3vw,1.14rem); line-height:1.6; color:#5C4C53; margin:0 0 28px; max-width:36ch}
 .l-actions{display:flex; flex-wrap:wrap; align-items:center; gap:14px 22px}
 .l-cta{border:0; background:var(--brand); color:#fff; font-weight:600; font-size:1.05rem; padding:16px 28px; border-radius:999px; box-shadow:0 14px 30px -18px rgba(110,31,71,.8); transition:transform .12s ease, box-shadow .12s}
@@ -429,7 +430,7 @@ body.on-landing .app{visibility:hidden}
 }
 @media (max-width: 900px){
   .landing-inner{grid-template-columns:1fr; grid-template-areas:"brand" "hero" "cards"; row-gap:28px}
-  .landing-photo img{top:-28%; right:-6%; width:100%; height:150%; object-position:86% 36%}
+  .landing-photo img{width:100%}
   .landing-photo::after{background:linear-gradient(180deg, rgba(247,239,230,.7) 0%, rgba(247,239,230,.28) 34%, rgba(247,239,230,.12) 100%)}
   .l-hero{padding-bottom:0}
   .l-cards{max-width:none}

diff --git a/dist/index.html b/dist/index.html
@@ -7,8 +7,8 @@
 <link rel="preconnect" href="https://fonts.googleapis.com">
 <link rel="preconnect" href="https://fonts.gstatic.com" crossorigin>
 <link href="https://fonts.googleapis.com/css2?family=IBM+Plex+Sans:wght@400;500;600;700&family=Libre+Baskerville:ital,wght@0,400;0,700;1,400&display=swap" rel="stylesheet">
-  <script type="module" crossorigin src="/assets/index-BdKc---5.js"></script>
-  <link rel="stylesheet" crossorigin href="/assets/index-DHcrl7zu.css">
+  <script type="module" crossorigin src="/assets/index-BYdgLr9i.js"></script>
+  <link rel="stylesheet" crossorigin href="/assets/index-CX-RMKwR.css">
 </head>
 <body class="on-landing pre">
 <section class="landing" id="landing" aria-label="Welcome to LincolnLens">
@@ -19,7 +19,7 @@
       <div class="tag">Your life insurance, explained</div>
     </div>
     <div class="l-hero">
-      <h1>Life’s unpredictable.<br>Your plan doesn’t have to be.</h1>
+      <h1>Life’s unpredictable.<br><em>Your plan doesn’t have to be.</em></h1>
       <p class="lede">Answer a few simple questions. See the financial gaps life insurance could help cover.</p>
       <div class="l-actions">
         <button class="l-cta" id="buildPlan" type="button">Build my plan</button>

diff --git a/index.html b/index.html
@@ -18,7 +18,7 @@
       <div class="tag">Your life insurance, explained</div>
     </div>
     <div class="l-hero">
-      <h1>Life’s unpredictable.<br>Your plan doesn’t have to be.</h1>
+      <h1>Life’s unpredictable.<br><em>Your plan doesn’t have to be.</em></h1>
       <p class="lede">Answer a few simple questions. See the financial gaps life insurance could help cover.</p>
       <div class="l-actions">
         <button class="l-cta" id="buildPlan" type="button">Build my plan</button>
